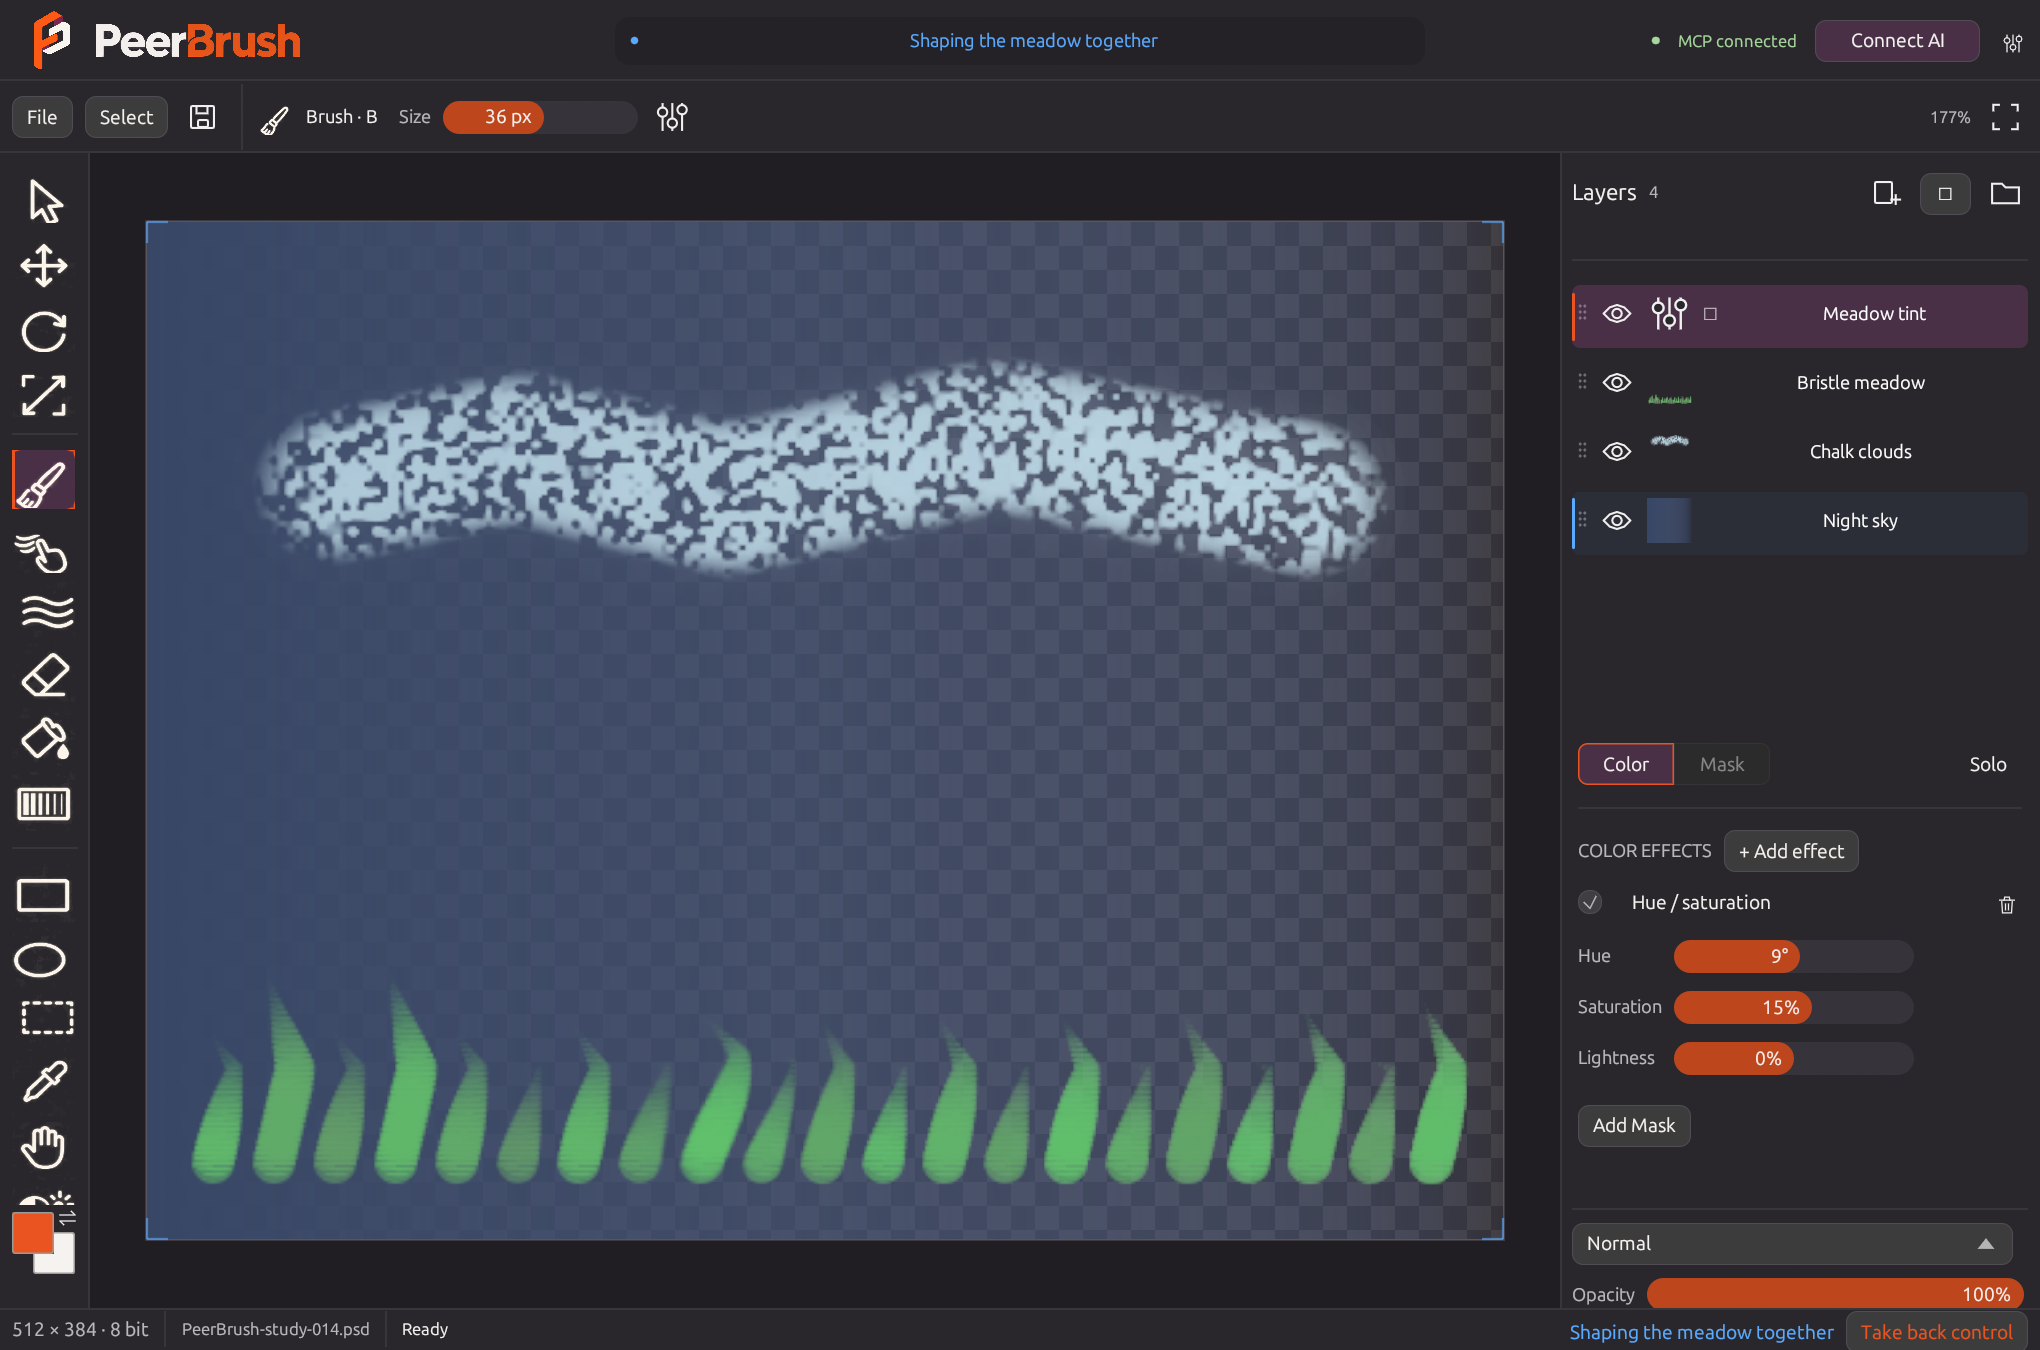
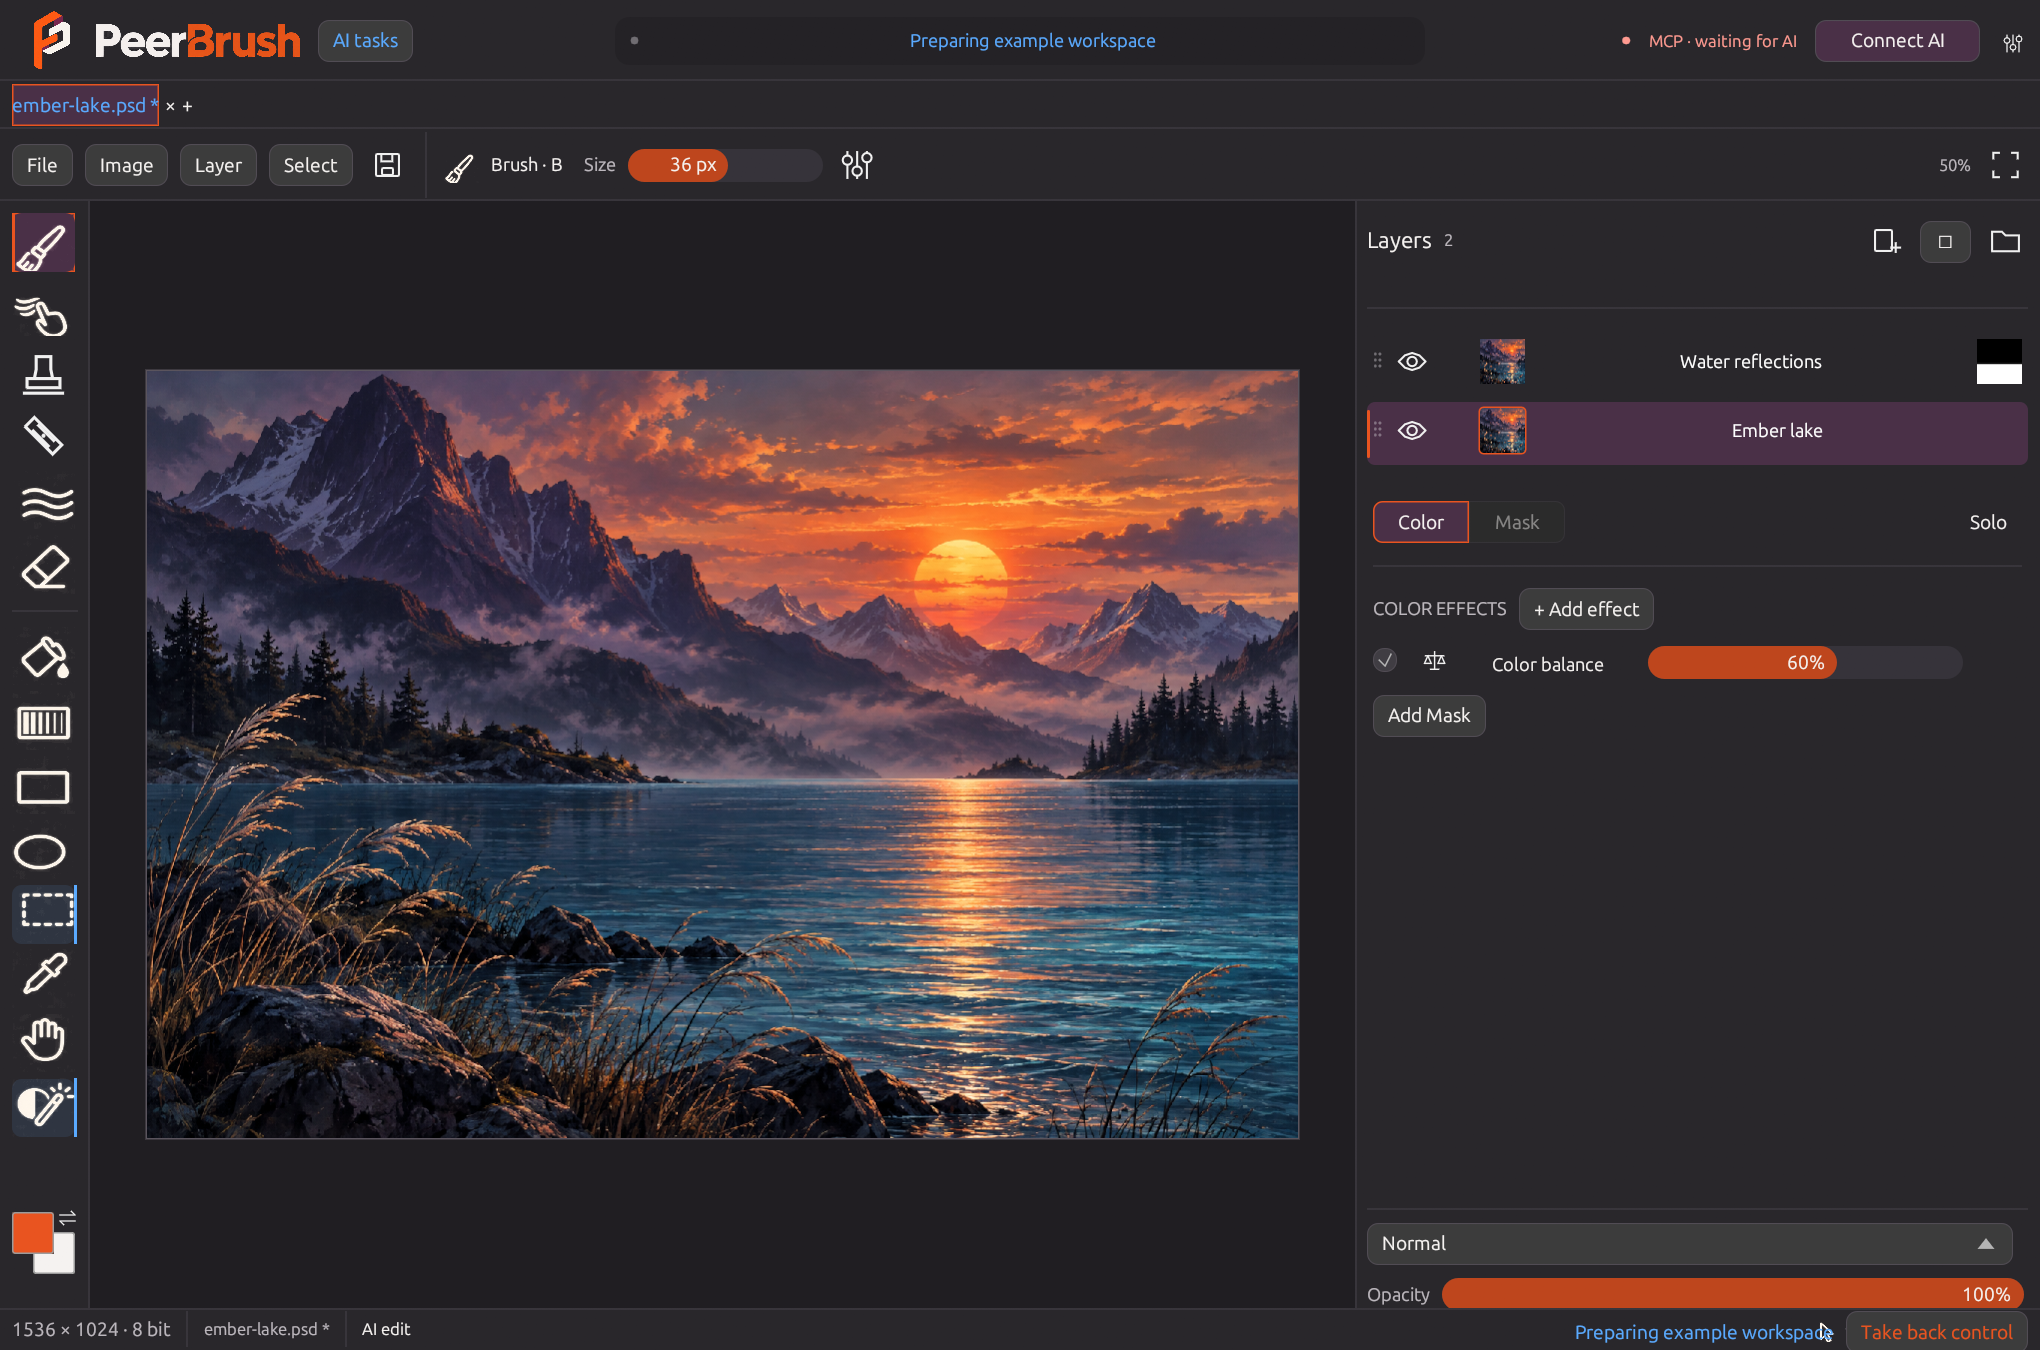
docs: disclose AI assistance and refresh workspace image

diff --git a/FOLLOWUPS.MD b/FOLLOWUPS.MD
@@ -225,7 +225,7 @@ These requests are queued for later development; they do not replace the active 
 
 | PB-139 | Clean historical release references and automatic source archives | Queued; owner approval required before destructive changes | Audit historical tags and GitHub-generated source archives separately from curated uploaded release assets. Remove unintended operational/private content from historical release references and automatically generated archives through a coordinated cleanup plan. Obtain explicit owner approval before any history rewrite, tag move or deletion. Verify replacement references and actual downloads, preserve required public source/licensing and release provenance, and document audit coverage and scope limits, including caches, forks and existing clones. Keep sensitive findings and operational details out of public documentation. |
 
-| PB-140 | Remove prominent Codex attribution and add an AI-development note | Queued | Audit where GitHub's Codex contributor/co-author entry, badge or other marker comes from without assuming its mechanism. Remove unwanted prominent automated attribution where supported, without misattributing code. Add a short factual note at the bottom of the project description/README stating that PeerBrush is developed with AI assistance. Preserve licenses, copyright and all required notices. Obtain explicit owner approval before any history rewrite, tag move or deletion, coordinating with PB-139 where relevant. Verify the visible GitHub presentation and the final note. |
+| PB-140 | Remove prominent Codex attribution and add an AI-development note | Partial; historical attribution cleanup requires owner approval | README includes a small AI-development disclosure and the official website's newer native workspace image. Contributor instructions and CI reject new Codex author, committer and co-author attribution. GitHub's existing contributor entry comes from two historical commits; removal remains pending. Preserve licenses, copyright and all required notices. Obtain explicit owner approval before any history rewrite, tag move or deletion, coordinating with PB-139 where relevant. Verify the visible GitHub presentation and the final note. |
 
 Blue AI tool highlighting and presentation transitions remain standing requirements for new operations; refine timing from user feedback.
 

diff --git a/README.md b/README.md
@@ -23,9 +23,9 @@ Instead of treating AI as a separate prompt box, PeerBrush gives both the user a
 
 The goal is simple: **Make AI a participant in the creative workflow, not just a generator.**
 
-![The native PeerBrush workspace](docs/images/workspace.png)
+![The native PeerBrush workspace editing a mountain lake at sunset](docs/images/workspace.png)
 
-*Actual native workspace. Ember orange identifies human interaction; blue identifies AI work.*
+*Actual native workspace with ImageGen example artwork. Ember orange identifies human interaction; blue identifies AI work.*
 
 ## A shared creative workspace
 
@@ -142,3 +142,5 @@ The shell uses Rust, egui/eframe and wgpu. Sparse copy-on-write tiles share unch
 ## License
 
 GNU General Public License v3. See [LICENSE](LICENSE). Bundled fonts and dependencies retain their own licenses; portable packages include source and third-party notices.
+
+<sub>This project is developed with AI assistance.</sub>

diff --git a/AGENTS.md b/AGENTS.md
@@ -1,5 +1,7 @@
 # PeerBrush development
 
+- Git attribution belongs to the human contributor. Do not use Codex or another AI tool as a commit author, committer or co-author, or add automated contributor badges. Keep the README's AI-development disclosure.
+
 - Preserve the GPL v3 license and Ember palette from MayaMCP.
 - Use compact, unboxed range values. Avoid decorative containers and borders that add clutter or waste space.
 - Show the actual rendered result while the user works: strokes, transforms, blend choices, effect changes and layer reordering. Preview through the shared engine, without committing history until the gesture finishes. Outline-only feedback is insufficient.
